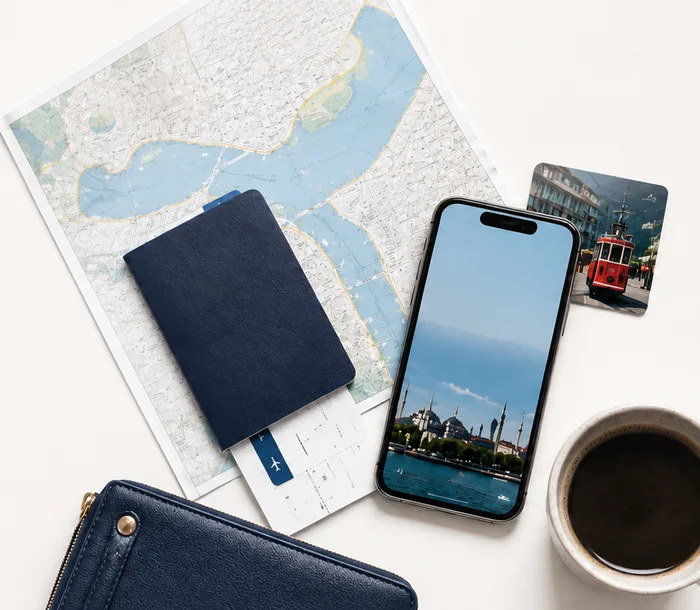
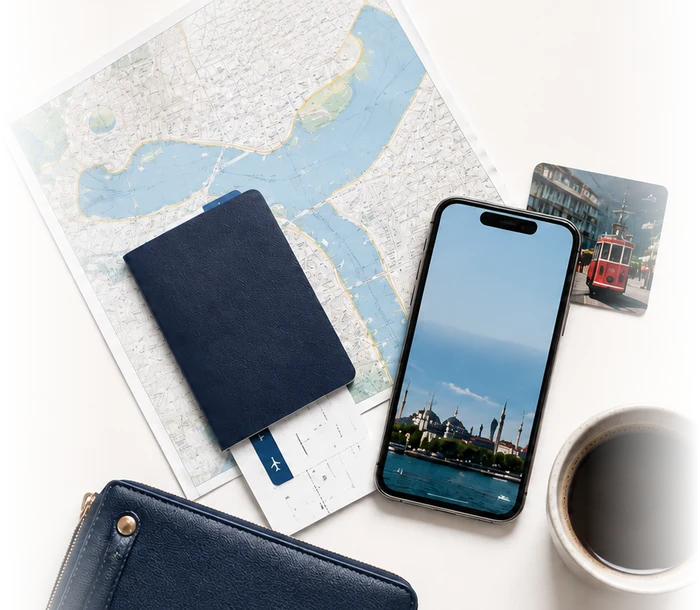
fix(home): blend the journey-card photo with a baked-in alpha fade
The CSS fade overlay didn't track the section's diagonal gradient
background, so the photo met a visible color seam. Bake a symmetric
alpha fade into both edges of the photo itself (works regardless of
layout direction) and flatten the section to one solid color so there's
nothing left to drift out of sync. Also tightens the card's padding/
photo width — a shrink the reference asked for.

diff --git a/src/pages/UserHome.tsx b/src/pages/UserHome.tsx
@@ -522,25 +522,31 @@ export function UserHome() {
       {/* ── the whole road, not a 3-item preview — except once every step is
           done, the full list is just a wall of checkmarks nobody needs to
           re-scan. Collapse to a one-line summary behind "show details", styled
-          as a banner with a "N steps" badge and the trip flat-lay photo. ── */}
-      <section className="card relative mt-4 overflow-hidden bg-gradient-to-br from-white to-cream p-5">
+          as a compact banner with a "N steps" badge and the trip flat-lay
+          photo. The section stays flat-colored (no gradient) on purpose: the
+          photo itself carries a baked-in alpha fade on both edges (see the
+          journey-complete-flatlay generation), so it blends into whatever's
+          behind it with no separate color to keep in sync — a gradient
+          section background previously drifted out of step with a flat CSS
+          fade overlay and showed as a visible seam. ── */}
+      <section className="card relative mt-4 overflow-hidden bg-cream p-4">
         <Link
           to="/journey"
-          className="absolute top-4 end-4 z-10 rounded-full bg-white/90 px-3 py-1 text-xs font-bold text-navy/70 shadow-sm hover:bg-white hover:text-navy"
+          className="absolute top-3 end-3 z-10 rounded-full bg-white/90 px-3 py-1 text-xs font-bold text-navy/70 shadow-sm hover:bg-white hover:text-navy"
         >
           {t('dash.stepsCount', { count: progress.total })}
         </Link>
-        <div className={roadComplete && !roadExpanded ? 'max-w-[62%] sm:max-w-[55%]' : 'pe-16'}>
+        <div className={roadComplete && !roadExpanded ? 'max-w-[60%] sm:max-w-[55%]' : 'pe-16'}>
           <h2 className="font-extrabold text-navy">{t('dash.roadTitle')}</h2>
           {roadComplete && !roadExpanded ? (
             <>
-              <p className="mt-2 text-sm font-bold text-emerald-700">
+              <p className="mt-1.5 text-sm font-bold text-emerald-700">
                 {t('dash.roadAllDone', { count: progress.total })}
               </p>
               <button
                 type="button"
                 onClick={() => setRoadExpanded(true)}
-                className="mt-3 inline-flex items-center gap-1 text-xs font-semibold text-navy/60 hover:text-navy"
+                className="mt-2 inline-flex items-center gap-1 text-xs font-semibold text-navy/60 hover:text-navy"
               >
                 {t('dash.roadShowDetails')}
                 <AppIcon name="chevron-down" className="w-3.5 h-3.5" />
@@ -574,12 +580,8 @@ export function UserHome() {
           )}
         </div>
         {roadComplete && !roadExpanded && (
-          <div className="pointer-events-none absolute end-0 top-0 h-full w-[46%] sm:w-[42%]">
+          <div className="pointer-events-none absolute end-0 top-0 h-full w-[42%] sm:w-[38%]">
             <SiteImage src="/img/journey-complete-flatlay.webp" alt="" className="h-full w-full" />
-            <div
-              className="absolute inset-y-0 start-0 w-10 bg-gradient-to-r from-cream to-transparent"
-              aria-hidden
-            />
           </div>
         )}
       </section>
